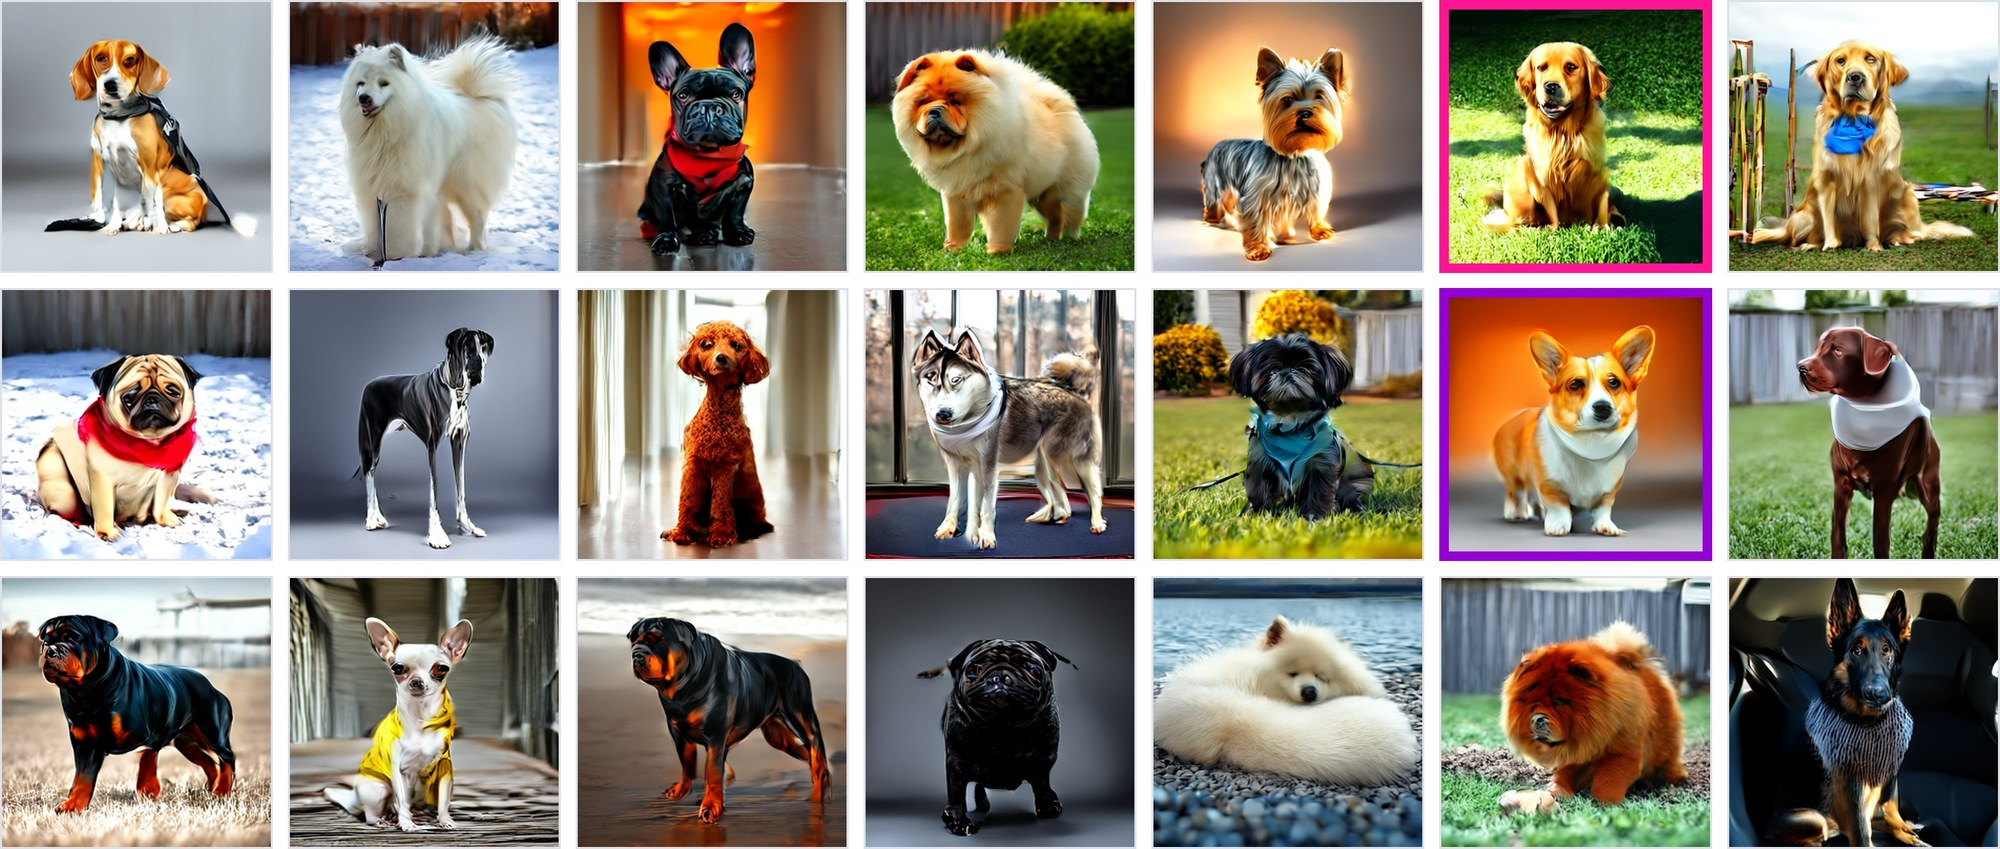
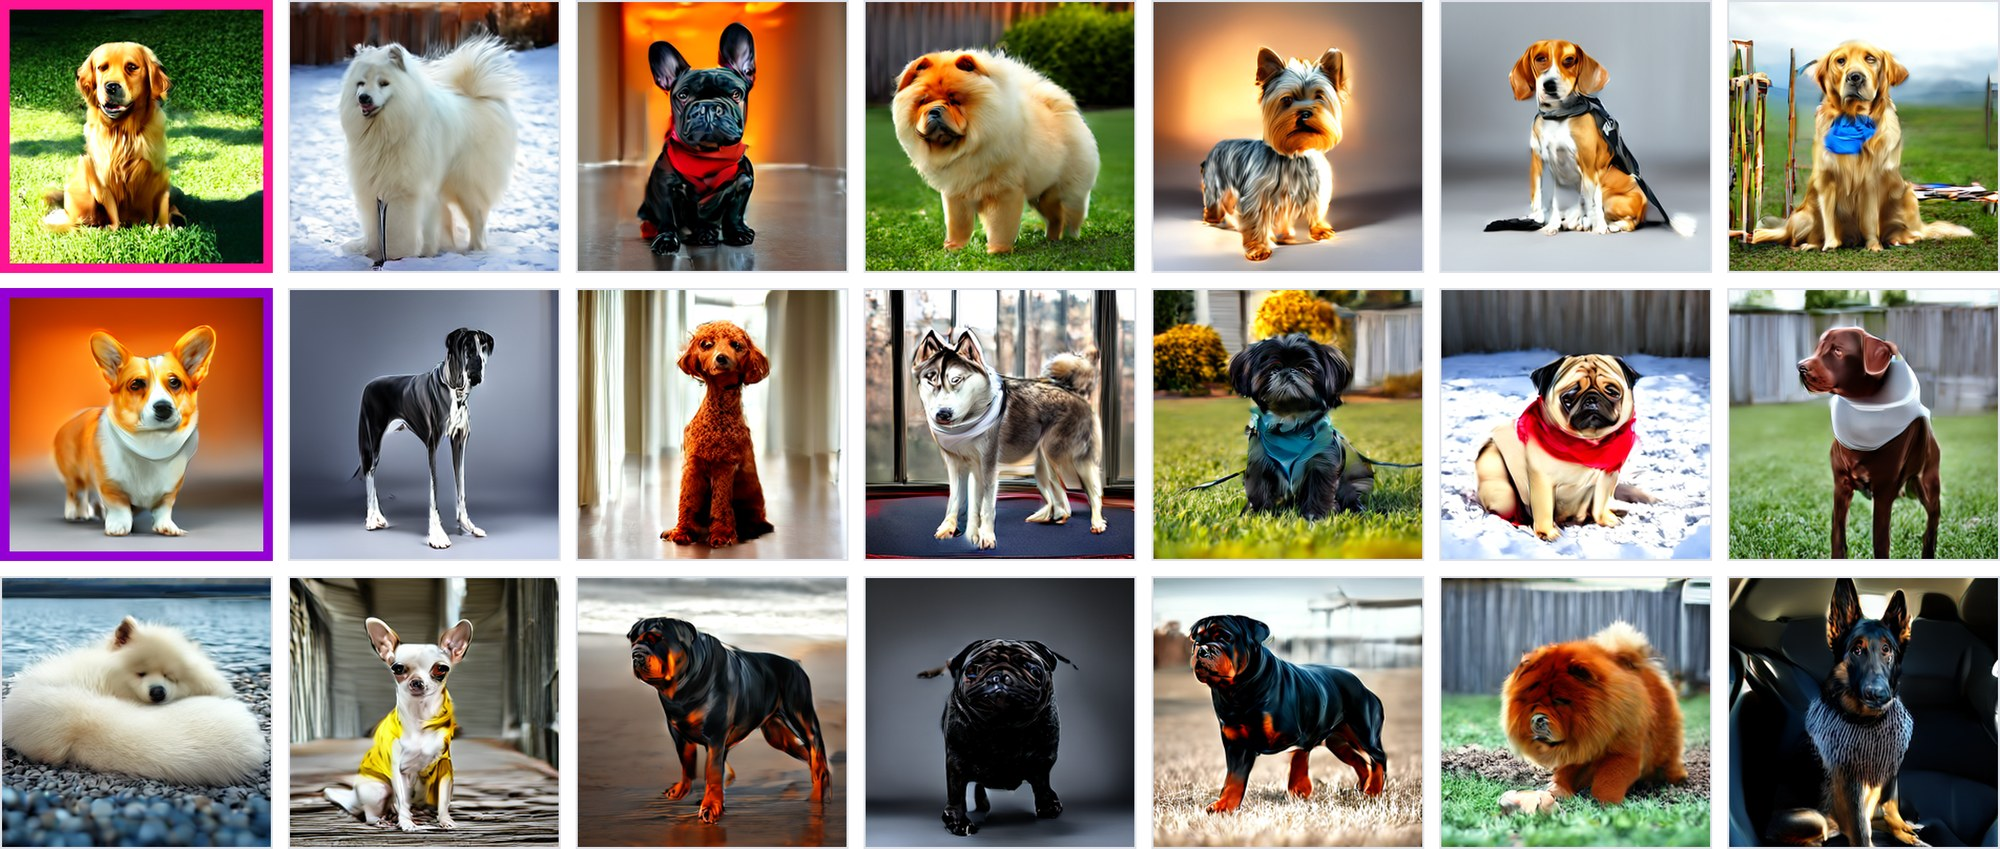
README quickstart with collapsible steps; 1-GPU config; project page tidy-up
- README: "Reproduce the paper" becomes a quickstart: installation and data in a note, then
  pretrain, fine-tune, and generate-and-score as collapsible steps that show the time and
  expected result, plus the released-checkpoint path.
- configs/pretrain_e2e-invae_128tok_mse_irepa_eupe_1gpu.yaml: the final recipe for one GPU,
  accumulating gradients over 4 x 64 images so every update still averages 256 images.
- Project page: quickstart removed (it now lives in the README), the hyperparameter table folds
  into a dropdown, and the samples grid follows the paper's latest arrangement.

Changed region(s): [[0.0, 0.0, 0.155, 1.0], [0.713, 0.0, 0.868, 0.6737], [0.558, 0.6737, 0.713, 1.0]]

diff --git a/docs/index.html b/docs/index.html
@@ -206,6 +206,15 @@ h3.text { font-size: 1.25em; line-height: 1.35; margin: 1.6em auto 0.4em; }
 .data-table caption strong { color: var(--text-primary); }
 .data-table.wide-table td:not(:first-child) { white-space: normal; min-width: 7.5em; }
 
+/* Dropdown */
+details.dropdown { margin: 20px auto; border: 1px solid var(--border-light); border-left: 4px solid var(--accent-soft); border-radius: 4px; background: var(--config-bg); box-shadow: 0 1px 3px rgba(0, 0, 0, 0.05); }
+details.dropdown > summary { cursor: pointer; list-style: none; padding: 12px 18px; font-weight: 700; color: var(--accent-soft); display: flex; align-items: center; gap: 10px; }
+details.dropdown > summary::-webkit-details-marker { display: none; }
+details.dropdown > summary::before { content: ""; width: 0.5em; height: 0.5em; border-right: 2px solid currentColor; border-bottom: 2px solid currentColor; transform: rotate(-45deg); transition: transform 0.2s ease; flex: none; }
+details.dropdown[open] > summary::before { transform: rotate(45deg); }
+details.dropdown > summary:hover { color: var(--accent); }
+details.dropdown .table-container { margin: 4px auto 18px; padding-inline: 12px; }
+
 /* Quickstart */
 .qs-card { border: 1px solid var(--border-light); border-radius: 8px; padding: 20px; background: var(--bg-page); box-shadow: 0 1px 3px rgba(0, 0, 0, 0.04); }
 .tabs { display: flex; flex-wrap: wrap; gap: 8px; justify-content: center; margin: 0 auto 18px; }
@@ -257,7 +266,6 @@ video { display: block; width: 100%; border-radius: 6px; background: #000000; }
 <nav class="toc-container" id="toc" aria-label="Contents">
   <h4>Contents</h4>
   <ul>
-    <li><a href="#quickstart">Quickstart</a></li>
     <li><a href="#resource">The MiniDog Resource</a></li>
     <li><a href="#training">Training Recipe</a></li>
     <li><a href="#results">Results</a></li>
@@ -360,9 +368,9 @@ video { display: block; width: 100%; border-radius: 6px; background: #000000; }
   </ol>
 
   <div class="icon-row">
-    <a href="#quickstart" class="icon-link">
-      <svg viewBox="0 0 48 48" fill="none" stroke="currentColor" stroke-width="3" stroke-linecap="round" stroke-linejoin="round" aria-hidden="true"><rect x="5" y="9" width="38" height="30" rx="4"/><path d="M13 20l6 5-6 5M23 31h11"/></svg>
-      Quickstart
+    <a href="#training" class="icon-link">
+      <svg viewBox="0 0 48 48" fill="none" stroke="currentColor" stroke-width="3" stroke-linecap="round" stroke-linejoin="round" aria-hidden="true"><path d="M8 12h32M8 24h32M8 36h32"/><circle cx="17" cy="12" r="4" fill="#fff"/><circle cx="31" cy="24" r="4" fill="#fff"/><circle cx="21" cy="36" r="4" fill="#fff"/></svg>
+      Training Recipe
     </a>
     <a href="#resource" class="icon-link">
       <svg viewBox="0 0 48 48" fill="none" stroke="currentColor" stroke-width="3" stroke-linecap="round" stroke-linejoin="round" aria-hidden="true"><rect x="4" y="18" width="11" height="12" rx="2"/><rect x="33" y="18" width="11" height="12" rx="2"/><rect x="18.5" y="8" width="11" height="12" rx="2"/><rect x="18.5" y="28" width="11" height="12" rx="2"/><path d="M15 24h3.5M29.5 24H33M24 20v8"/></svg>
@@ -381,85 +389,6 @@ video { display: block; width: 100%; border-radius: 6px; background: #000000; }
     <svg viewBox="0 0 24 24" fill="none" stroke="currentColor" stroke-width="2" stroke-linecap="round" stroke-linejoin="round" aria-hidden="true"><path d="M9 9l11 4-5 2-2 5z"/><path d="M5 3.5l1.5 2M2.5 8.5H5M10 2v2.5"/></svg>
     <strong>Click to jump to each section.</strong>
   </p>
-
-  <hr>
-
-  <!-- Quickstart -->
-  <section id="quickstart">
-    <h1 class="text centered">Quickstart</h1>
-    <div class="qs-card">
-      <div class="install-box"><strong>Installation and data:</strong> clone the code, install it with uv, and download the datasets and the EUPE encoder.</div>
-      <div class="code-wrap">
-<pre><code>git clone -b irepa-eupe https://github.com/llm-robotics/minidog && cd minidog && uv sync
-export DATA=data/dog-t2i-diffusion-data
-uv run hf download reyhanehesi/dog-t2i-diffusion-data --local-dir $DATA --repo-type dataset
-for NAME in dogs_recaptioned_wds dogs_synthetic_2k_wds dogs_recaptioned_64tok_wds; do
-  mkdir -p $DATA/$NAME && tar -xzf $DATA/$NAME.tar.gz -C $DATA/$NAME && rm $DATA/$NAME.tar.gz
-done
-uv run python -m minidog.fid_stats --data-dir $DATA/dogs_recaptioned_wds \
-    --output $DATA/dogs_recaptioned_stats.npz
-
-# EUPE ViT-B/16, the alignment target (its weights are not downloaded automatically)
-git clone https://github.com/facebookresearch/EUPE ../EUPE
-uv run hf download facebook/EUPE-ViT-B EUPE-ViT-B.pt --local-dir ../eupe_ckpts
-export EUPE_REPO_DIR=$(realpath ../EUPE) EUPE_CKPT_DIR=$(realpath ../eupe_ckpts)</code></pre>
-      </div>
-
-      <div class="tabs" role="tablist" aria-label="Quickstart steps" style="margin-top:22px">
-        <button class="tab" role="tab" id="tab-pre" aria-controls="panel-pre" aria-selected="true" type="button">Pretrain</button>
-        <button class="tab" role="tab" id="tab-sft" aria-controls="panel-sft" aria-selected="false" type="button">Fine-tune</button>
-        <button class="tab" role="tab" id="tab-gen" aria-controls="panel-gen" aria-selected="false" type="button">Generate and score</button>
-      </div>
-
-      <div class="panel" role="tabpanel" id="panel-pre" aria-labelledby="tab-pre">
-        <h3>Pretrain the best recipe</h3>
-        <p>Cache the latents, text embeddings and EUPE features once, then pretrain for 200 epochs.</p>
-        <div class="code-wrap">
-<pre><code>uv run torchrun --standalone --nproc_per_node=4 -m minidog.precompute_latents_eupe \
-    --config configs/pretrain_e2e-invae_128tok_mse_irepa_eupe.yaml \
-    --input-dir $DATA/dogs_recaptioned_wds \
-    --output-dir $DATA/dogs_recaptioned_latents_e2e-invae_eupe
-
-export EXPERIMENT_NAME=pretrain
-uv run torchrun --standalone --nproc_per_node=4 -m minidog.train \
-    --config configs/pretrain_e2e-invae_128tok_mse_irepa_eupe.yaml --compile</code></pre>
-        </div>
-      </div>
-
-      <div class="panel" role="tabpanel" id="panel-sft" aria-labelledby="tab-sft" hidden>
-        <h3>Fine-tune the pretrained checkpoint</h3>
-        <p>Cache the 2k synthetic images, then fine-tune for 100 epochs with the alignment loss off.</p>
-        <div class="code-wrap">
-<pre><code>uv run torchrun --standalone --nproc_per_node=4 -m minidog.precompute_latents_eupe \
-    --config configs/sft_e2e-invae_128tok_mse_norepa.yaml \
-    --input-dir $DATA/dogs_synthetic_2k_wds \
-    --output-dir $DATA/dogs_synthetic_2k_latents_e2e-invae_eupe
-
-export EXPERIMENT_NAME=sft
-uv run torchrun --standalone --nproc_per_node=4 -m minidog.train \
-    --config configs/sft_e2e-invae_128tok_mse_norepa.yaml --compile \
-    --ckpt ckpts/pretrain/checkpoints/ep-0000200.pt --init-weights-only</code></pre>
-        </div>
-      </div>
-
-      <div class="panel" role="tabpanel" id="panel-gen" aria-labelledby="tab-gen" hidden>
-        <h3>Generate and score</h3>
-        <p>Sample the 500 held-out prompts from both checkpoints with shared noise, then score them with HPSv2 and PickScore.</p>
-        <div class="code-wrap">
-<pre><code>for RUN in "pretrain configs/pretrain_e2e-invae_128tok_mse_irepa_eupe.yaml" \
-           "sft configs/sft_e2e-invae_128tok_mse_norepa.yaml"; do
-  set -- $RUN
-  uv run python -m minidog.generate --config $2 \
-      --checkpoint $(ls ckpts/$1/checkpoints/*.pt | tail -1) \
-      --captions-json $DATA/captions_500.json \
-      --output-dir results/samples/$1 \
-      --noise-file results/samples/shared_noise_500.pt --group-by-breed
-done
-uv run python -m minidog.score_absolute --dirs results/samples/pretrain results/samples/sft</code></pre>
-        </div>
-      </div>
-    </div>
-  </section>
 
   <hr>
 
@@ -508,7 +437,9 @@ uv run python -m minidog.score_absolute --dirs results/samples/pretrain results/
   <!-- Training recipe -->
   <section id="training">
     <h1 class="text">Training Recipe</h1>
-    <p class="text">Unless otherwise stated, we pretrain for 200 epochs (~20k steps) and fine-tune for 100 epochs (~700 steps). The table lists every hyperparameter of the final recipe.</p>
+    <p class="text">Unless otherwise stated, we pretrain for 200 epochs (~20k steps) and fine-tune for 100 epochs (~700 steps). Click below to see every hyperparameter of the final recipe.</p>
+    <details class="dropdown">
+      <summary>Show all hyperparameters of the final recipe</summary>
     <div class="table-container">
       <table class="data-table wide-table">
         <thead><tr><th></th><th>Pretraining</th><th>SFT</th></tr></thead>
@@ -557,6 +488,7 @@ uv run python -m minidog.score_absolute --dirs results/samples/pretrain results/
         <caption><strong>Hyperparameters of the final recipe.</strong> Configs: <code>pretrain_e2e-invae_128tok_mse_irepa_eupe.yaml</code> and <code>sft_e2e-invae_128tok_mse_norepa.yaml</code>.</caption>
       </table>
     </div>
+    </details>
     <div class="config-box">
       <p><strong>Computing resources:</strong></p>
       <ul>

diff --git a/README.md b/README.md
@@ -26,27 +26,25 @@ embeddings of 128-token captions, and pretrained with iREPA alignment to EUPE Vi
 block 4. Image and text features are computed once and cached, so training only updates the
 transformer.
 
-## Reproduce the paper
+## Quickstart
 
-### 1. Install
-
-You need Linux, NVIDIA GPUs with a driver that supports CUDA 12.8 (the paper uses four 24 GB RTX
-3090s), and [uv](https://docs.astral.sh/uv/).
+> [!NOTE]
+> **Installation and data.** Clone the code, install it with [uv](https://docs.astral.sh/uv/), and
+> download the datasets and the EUPE encoder. You need Linux and NVIDIA GPUs with a driver that
+> supports CUDA 12.8; the paper uses four 24 GB RTX 3090s.
 
 ```bash
 git clone -b irepa-eupe https://github.com/llm-robotics/minidog && cd minidog
 curl -LsSf https://astral.sh/uv/install.sh | sh   # skip if you already have uv
 uv sync
-```
 
-### 2. Download the data and the EUPE encoder
-
-```bash
 export DATA=data/dog-t2i-diffusion-data
 uv run hf download reyhanehesi/dog-t2i-diffusion-data --local-dir $DATA --repo-type dataset
 for NAME in dogs_recaptioned_wds dogs_synthetic_2k_wds dogs_recaptioned_64tok_wds; do
   mkdir -p $DATA/$NAME && tar -xzf $DATA/$NAME.tar.gz -C $DATA/$NAME && rm $DATA/$NAME.tar.gz
 done
+uv run python -m minidog.fid_stats --data-dir $DATA/dogs_recaptioned_wds \
+    --output $DATA/dogs_recaptioned_stats.npz
 
 # EUPE ViT-B/16, the alignment target. Its weights are not downloaded automatically.
 git clone https://github.com/facebookresearch/EUPE ../EUPE
@@ -55,49 +53,63 @@ export EUPE_REPO_DIR=$(realpath ../EUPE) EUPE_CKPT_DIR=$(realpath ../eupe_ckpts)
 ```
 
 Keep `DATA`, `EUPE_REPO_DIR` and `EUPE_CKPT_DIR` set in every new shell; the steps below use them.
+Click a step to open it.
 
-### 3. Cache the features (once)
+<details open>
+<summary><b>1. Pretrain the best recipe</b> &nbsp;·&nbsp; 55 minutes on 4 GPUs &nbsp;·&nbsp; FID 8.32</summary>
+<br>
 
-This writes the FID reference statistics of the real photos, then the latents, text embeddings and
-EUPE features of the 26k pretraining photos and the 2k fine-tuning images. Each command takes a few
-minutes on 4 GPUs.
-
-```bash
-uv run python -m minidog.fid_stats --data-dir $DATA/dogs_recaptioned_wds \
-    --output $DATA/dogs_recaptioned_stats.npz
-
-PRE="uv run torchrun --standalone --nproc_per_node=4 -m minidog.precompute_latents_eupe"
-$PRE --config configs/pretrain_e2e-invae_128tok_mse_irepa_eupe.yaml \
-    --input-dir $DATA/dogs_recaptioned_wds --output-dir $DATA/dogs_recaptioned_latents_e2e-invae_eupe
-$PRE --config configs/sft_e2e-invae_128tok_mse_norepa.yaml \
-    --input-dir $DATA/dogs_synthetic_2k_wds --output-dir $DATA/dogs_synthetic_2k_latents_e2e-invae_eupe
-```
-
-### 4. Pretrain (55 minutes, FID 8.32)
+Cache the latents, text embeddings and EUPE features of the 26k photos once (a few minutes), then
+pretrain for 200 epochs.
 
 ```bash
+uv run torchrun --standalone --nproc_per_node=4 -m minidog.precompute_latents_eupe \
+    --config configs/pretrain_e2e-invae_128tok_mse_irepa_eupe.yaml \
+    --input-dir $DATA/dogs_recaptioned_wds \
+    --output-dir $DATA/dogs_recaptioned_latents_e2e-invae_eupe
+
 export EXPERIMENT_NAME=pretrain
 uv run torchrun --standalone --nproc_per_node=4 -m minidog.train \
     --config configs/pretrain_e2e-invae_128tok_mse_irepa_eupe.yaml --compile
 ```
 
-FID is evaluated during training every 5,000 steps and written to `results/evals/`. The value at step
-20,000 is the paper's FID. This in-training evaluation doubles the run time; the 55 minutes are
-measured without it (set `eval.eval_interval: 0` in the config to turn it off).
+FID is evaluated during training every 5,000 steps and written to `results/evals/`; the value at
+step 20,000 is the paper's FID. This in-training evaluation doubles the run time, and the 55 minutes
+are measured without it (set `eval.eval_interval: 0` in the config to turn it off).
 
-### 5. Fine-tune (15 minutes)
+**Only one GPU?** Use `--nproc_per_node=1` in both commands and train with
+`configs/pretrain_e2e-invae_128tok_mse_irepa_eupe_1gpu.yaml`. It accumulates gradients over four
+batches of 64 images, so every update still averages 256 images and training follows the same
+schedule as on four GPUs. Training alone takes about 3.5 hours on one RTX 3090.
+</details>
+
+<details>
+<summary><b>2. Fine-tune the pretrained checkpoint</b> &nbsp;·&nbsp; 15 minutes on 4 GPUs</summary>
+<br>
+
+Cache the 2k synthetic images, then fine-tune for 100 epochs with the alignment loss off.
 
 ```bash
+uv run torchrun --standalone --nproc_per_node=4 -m minidog.precompute_latents_eupe \
+    --config configs/sft_e2e-invae_128tok_mse_norepa.yaml \
+    --input-dir $DATA/dogs_synthetic_2k_wds \
+    --output-dir $DATA/dogs_synthetic_2k_latents_e2e-invae_eupe
+
 export EXPERIMENT_NAME=sft
 uv run torchrun --standalone --nproc_per_node=4 -m minidog.train \
     --config configs/sft_e2e-invae_128tok_mse_norepa.yaml --compile \
     --ckpt ckpts/pretrain/checkpoints/ep-0000200.pt --init-weights-only
 ```
 
-Fine-tuning turns the alignment loss off and trains with the flow-matching loss only. In-training FID
-evaluation adds about an hour here; set `eval.eval_interval: 0` to skip it.
+In-training FID evaluation adds about an hour here; set `eval.eval_interval: 0` to skip it.
+</details>
 
-### 6. Generate and score (HPSv2 and PickScore)
+<details>
+<summary><b>3. Generate and score</b> &nbsp;·&nbsp; HPSv2 0.1625 → 0.2427, PickScore 18.42 → 19.61</summary>
+<br>
+
+Sample the 500 held-out prompts from both checkpoints with shared noise, then score them with
+HPSv2 and PickScore.
 
 ```bash
 for RUN in "pretrain configs/pretrain_e2e-invae_128tok_mse_irepa_eupe.yaml" \
@@ -111,13 +123,15 @@ done
 uv run python -m minidog.score_absolute --dirs results/samples/pretrain results/samples/sft
 ```
 
-Expected: HPSv2 0.1625 → 0.2427 and PickScore 18.42 → 19.61, averaged over the 500 held-out prompts.
 `--noise-file` reuses the same 500 noise tensors for both checkpoints, so each pair of images differs
 only by the checkpoint.
+</details>
 
-### Skip training: score the released checkpoints
+<details>
+<summary><b>No training: score the released checkpoints</b></summary>
+<br>
 
-After steps 1 and 2, download the two checkpoints and run step 6 on them:
+After the installation step, download the two checkpoints and generate and score with them:
 
 ```bash
 uv run hf download reyhanehesi/minidog-checkpoints --local-dir ckpts/released
@@ -130,11 +144,12 @@ for RUN in "pretrain configs/pretrain_e2e-invae_128tok_mse_irepa_eupe.yaml irepa
 done
 uv run python -m minidog.score_absolute --dirs results/samples/pretrain results/samples/sft
 ```
+</details>
 
 ## Reproduce the comparisons
 
 Each comparison in the paper changes one setting of the final recipe and keeps the rest fixed. Train
-a config exactly like step 4, after caching the features it reads (see the dropdown below):
+a config exactly like step 1 of the quickstart, after caching the features it reads (see the dropdown below):
 
 ```bash
 CONFIG=configs/pretrain_e2e-vavae_128tok_mse_irepa_eupe.yaml
@@ -162,7 +177,7 @@ uv run --with torchmetrics --with lpips python -m minidog.recon_eval --vae-type 
 <summary><b>Cache the features each comparison reads</b></summary>
 
 Each config reads the latents folder named in its `dataset.data_dir`. The final recipe's folder from
-step 3 already covers the EUPE runs at 128 tokens with E2E-INVAE.
+the quickstart already covers the EUPE runs at 128 tokens with E2E-INVAE.
 
 ```bash
 EUPE="uv run torchrun --standalone --nproc_per_node=4 -m minidog.precompute_latents_eupe"
